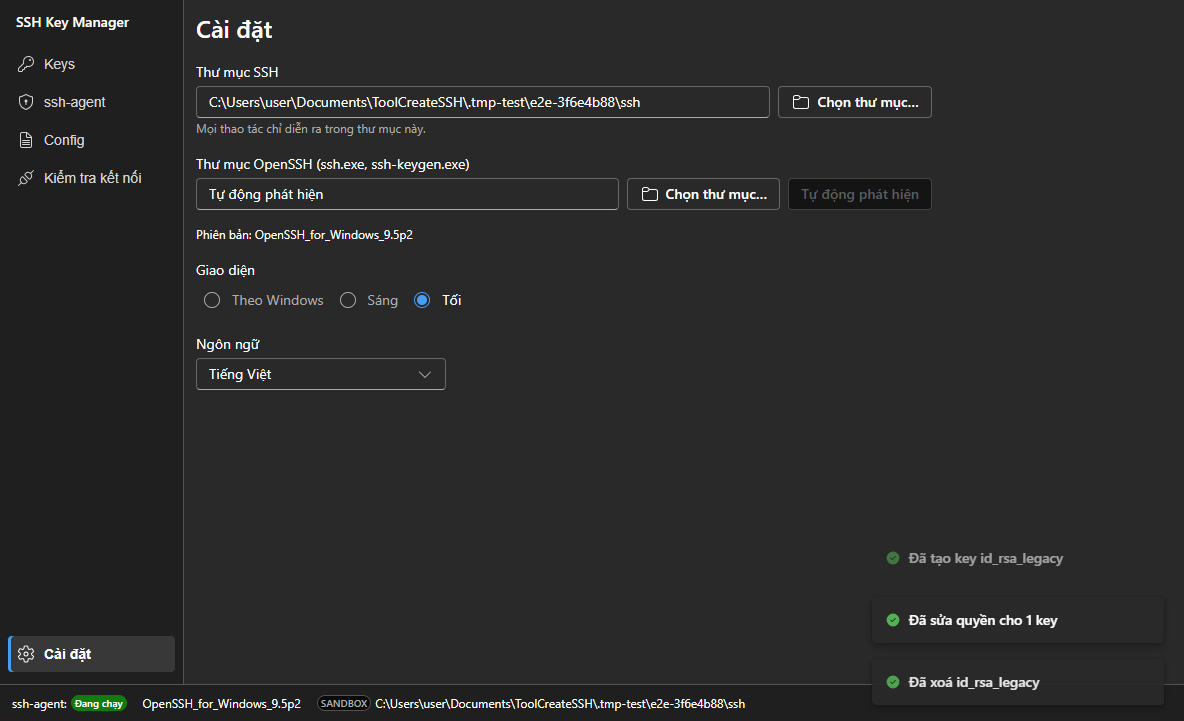
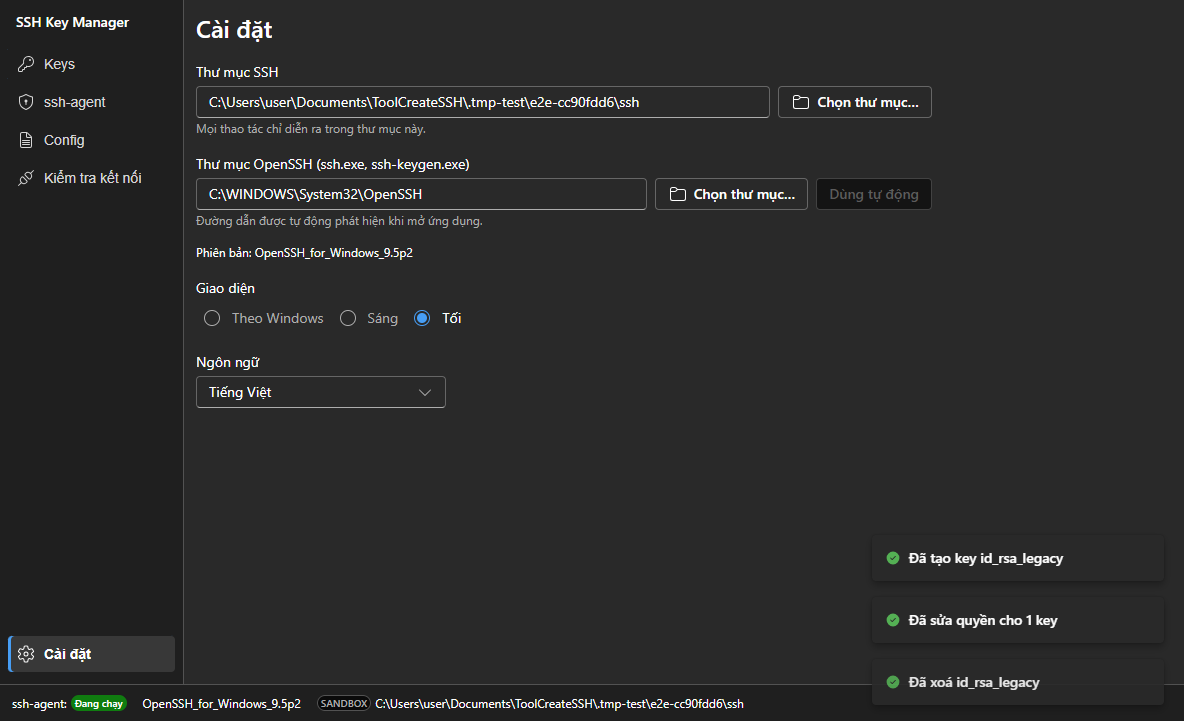
fix(ui): show detected openssh path instead of placeholder in settings

diff --git a/src/renderer/pages/SettingsPage.tsx b/src/renderer/pages/SettingsPage.tsx
@@ -58,14 +58,14 @@ export function SettingsPage(props: { settings: Settings; env: EnvInfo | null; o
         </MessageBar>
       ) : null}
 
-      <Field label={t('settings.bin')}>
+      <Field label={t('settings.bin')} hint={settings.binDir === null ? t('settings.binAutoHint') : t('settings.binManualHint')}>
         <div className={s.row}>
-          <Input className={s.grow} readOnly value={settings.binDir ?? t('settings.binAuto')} />
+          <Input className={s.grow} readOnly value={settings.binDir ?? env?.opensshBinDir ?? ''} data-testid="settings-bindir" />
           <Button icon={<Folder20Regular />} onClick={() => void pick('bin')}>
             {t('settings.pick')}
           </Button>
           <Button disabled={settings.binDir === null} onClick={() => void save({ binDir: null })}>
-            {t('settings.binAuto')}
+            {t('settings.useAuto')}
           </Button>
         </div>
       </Field>

diff --git a/tests/e2e/pages.spec.ts b/tests/e2e/pages.spec.ts
@@ -77,6 +77,8 @@ for (const theme of ['light', 'dark'] as const) {
       await page.getByTestId('nav-settings').click();
       await expect(page.getByTestId('settings-sshdir')).toHaveValue(l.sshDir);
       await expect(page.getByTestId('real-dir-warning')).toHaveCount(0);
+      // Auto-detected OpenSSH dir is shown as a real path, not as a placeholder.
+      await expect(page.getByTestId('settings-bindir')).toHaveValue(/OpenSSH$/i);
       await shot(page, `settings-${theme}`);
 
       // Agent: this machine's service is Disabled, so Start must explain the admin requirement.

diff --git a/src/main/services.ts b/src/main/services.ts
@@ -83,6 +83,7 @@ export class AppServices {
       isSandbox: isSandboxDir(this.ctx.sshDir, defaultSshDir),
       platform: process.platform,
       devMode: !app.isPackaged,
+      opensshBinDir: path.dirname(this.ctx.bin.keygen),
       defaultComment: `${os.userInfo().username}@${process.env.COMPUTERNAME ?? os.hostname()}`
     };
   }

diff --git a/src/core/types.ts b/src/core/types.ts
@@ -183,6 +183,8 @@ export interface EnvInfo {
   platform: string;
   /** Unpacked (development) build: the UI warns when the real ~/.ssh is in use. */
   devMode: boolean;
+  /** OpenSSH directory actually in use (the configured one, or the auto-detected one). */
+  opensshBinDir: string;
 }
 
 export interface ConnectionTestResult {
